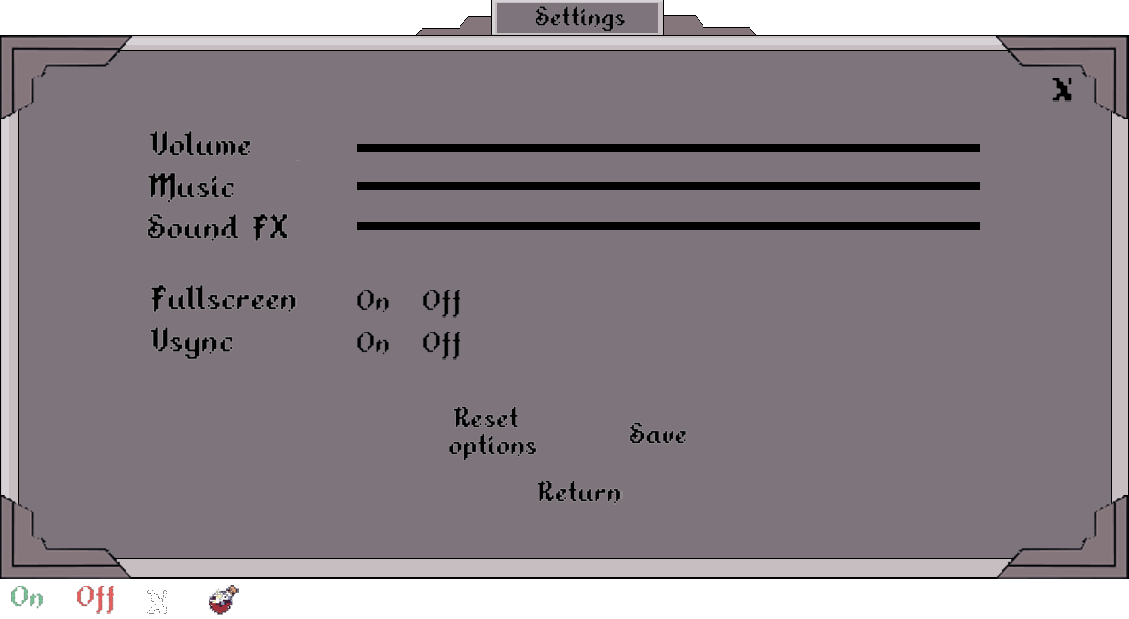
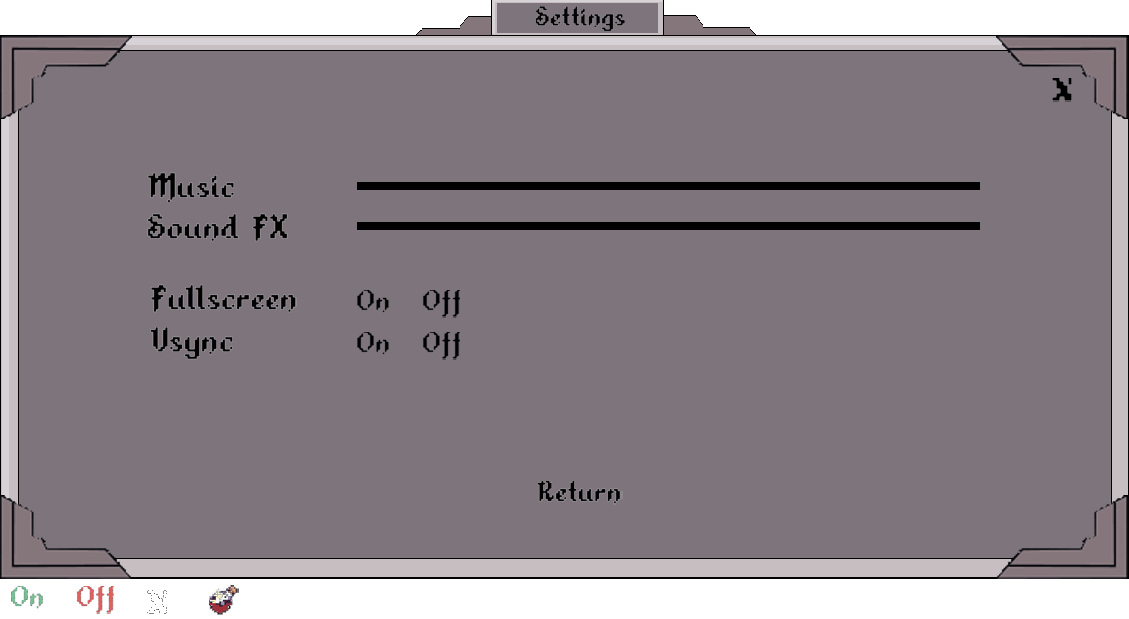
Fixed audio sliders

diff --git a/Game/Source/SettingsPanel.cpp b/Game/Source/SettingsPanel.cpp
@@ -23,17 +23,17 @@ bool SettingsPanel::Start()
     box = { 0,0,1129,580 };
     fullscreen = app->win->fullscreen;
 
-    volumeSldr = (GuiSlider*)CreateGuiSlider(0, app->guiManager, this, { 350 + 76,133 + 73, 620 ,30 }, { 355, 130, 36 * 2 ,36 });
+    volumeSldr = (GuiSlider*)CreateGuiSlider(0, app->guiManager, this, { 350 + 76,133 + 73, 620 ,30 }, { 355, 130, 36 ,36 });
     volumeSldr->texture = app->guiManager->settingsBox;
     volumeSldr->thumbRect = { 205,582,36,36 };
     volumeSldr->SetValue(128);
 
-    musicSldr = (GuiSlider*)CreateGuiSlider(1, app->guiManager, this, { 350 + 76,173 + 73, 620 ,30 }, { 355, 130, 36 * 2 ,36 });
+    musicSldr = (GuiSlider*)CreateGuiSlider(1, app->guiManager, this, { 430,246, 620 ,30 }, { 355, 130, 36,36 });
     musicSldr->texture = app->guiManager->settingsBox;
     musicSldr->thumbRect = { 205,582,36,36 };
     musicSldr->SetValue(128);
 
-    fxSldr = (GuiSlider*)CreateGuiSlider(2, app->guiManager, this, { 350 + 76,210 + 73, 620 ,30 }, { 355, 130, 36 * 2 ,36 });
+    fxSldr = (GuiSlider*)CreateGuiSlider(2, app->guiManager, this, { 350 + 76,210 + 73, 620 ,30 }, { 355, 130, 36 ,36 });
     fxSldr->texture = app->guiManager->settingsBox;
     fxSldr->thumbRect = { 205,582,36,36 };
     fxSldr->SetValue(128);
@@ -78,7 +78,7 @@ bool SettingsPanel::Start()
 bool SettingsPanel::Update(float dt, bool doLogic)
 {
     GuiPanel::Update(dt, doLogic);
-    app->audio->SetMusicVolume(MUSIC_VOLUME * (musicSldr->value/100));
+    //app->audio->SetMusicVolume(MUSIC_VOLUME * (musicSldr->value/100));
 
     if (fullscreen == false)
     {
@@ -89,6 +89,17 @@ bool SettingsPanel::Update(float dt, bool doLogic)
     {
         fullSrnOff->state = GuiControlState::NORMAL;
         fullSrnON->state = GuiControlState::SELECTED;
+    }
+
+    if (vsync == true)
+    {
+        vsyncOff->state = GuiControlState::SELECTED;
+        vsyncOn->state = GuiControlState::NORMAL;
+    }
+    else
+    {
+        vsyncOff->state = GuiControlState::NORMAL;
+        vsyncOn->state = GuiControlState::SELECTED;
     }
 
     return true;
@@ -139,23 +150,26 @@ bool SettingsPanel::OnGuiMouseClickEvent(GuiControl* control)
 
     if (control->id == vsyncOn->id)
     {
-        app->render->vsync = true;
-        app->render->SetVsync(app->render->vsync);
+        vsync = !vsyncOn->State;
+        app->render->SetVsync(vsync);
     }
     else if (control->id == vsyncOff->id)
     {
+        vsync = !vsyncOff->State;
+        //app->render->SetVsync(vsync);
     }
     
     if (control->id == musicSldr->id)
     { 
-        int vol = musicSldr->GetValue();
-        if(vol>=128) app->audio->SetMusicVolume(128);
-        if(vol <= 128) app->audio->SetMusicVolume(99);
-        if(vol <= 90) app->audio->SetMusicVolume(90);
-        if(vol <= 50)app->audio->SetMusicVolume(50);
-        if(vol<= 10)app->audio->SetMusicVolume(10);
-        if(vol <= 0)app->audio->SetMusicVolume(0);
-        //app->audio->SetMusicVolume(musicSldr->GetValue());
+        //int vol = musicSldr->position.x;
+ 
+        //if(vol>=1052) app->audio->SetMusicVolume(128);
+        //if(vol <= 937) app->audio->SetMusicVolume(99);
+        //if(vol <= 834) app->audio->SetMusicVolume(90);
+        //if(vol <= 659)app->audio->SetMusicVolume(50);
+        //if(vol<= 508)app->audio->SetMusicVolume(10);
+        //if(vol <= 449)app->audio->SetMusicVolume(0);
+        app->audio->SetMusicVolume(musicSldr->GetValue());
         LOG("VOLUME %i", app->audio->GetMusicVolume());
         LOG("sldr value %i", musicSldr->GetValue());
     }

diff --git a/Game/Source/PartyPanel.h b/Game/Source/PartyPanel.h
@@ -43,15 +43,6 @@ public:
 private:
 	uint swidth, sheight;
 
-	Character* character;
-	std::vector<Ability*>* abilities;
-
-	// Box texture
-	SDL_Rect big_box;
-	SDL_Rect medium_box;
-	SDL_Rect small_box;
-	SDL_Rect arrow;
-
 	// Colors
 	Color m_LabelColor;
 	Color m_BaseColor;

diff --git a/Game/Source/PartyPanel.cpp b/Game/Source/PartyPanel.cpp
@@ -199,7 +199,6 @@ bool PartyPanel::Draw()
             //    break;
             //}
             //break;
-
         }
         
     }

diff --git a/Game/Source/SettingsPanel.h b/Game/Source/SettingsPanel.h
@@ -30,5 +30,6 @@ public:
 	SDL_Rect box;
 
 	bool fullscreen = false;
+	bool vsync = false;
 };
 
